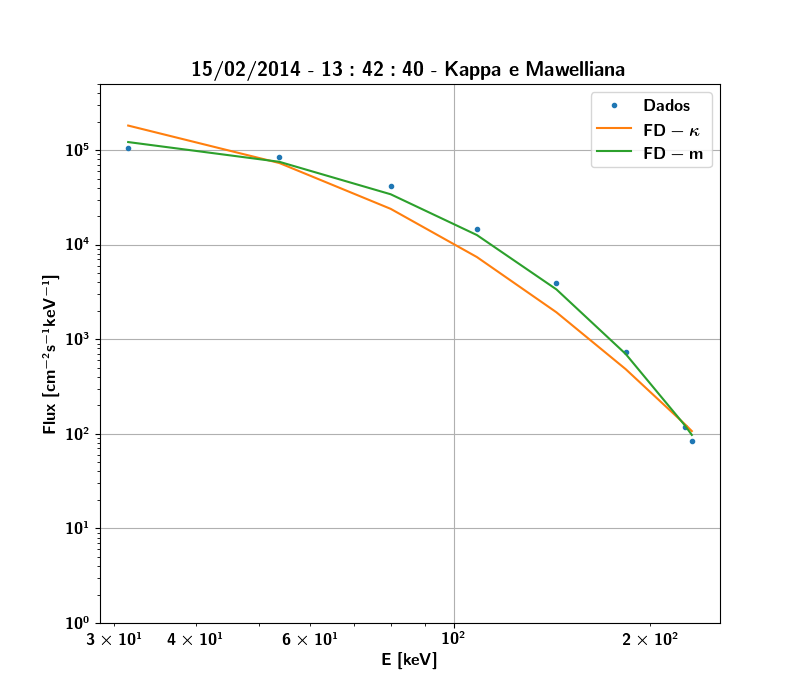
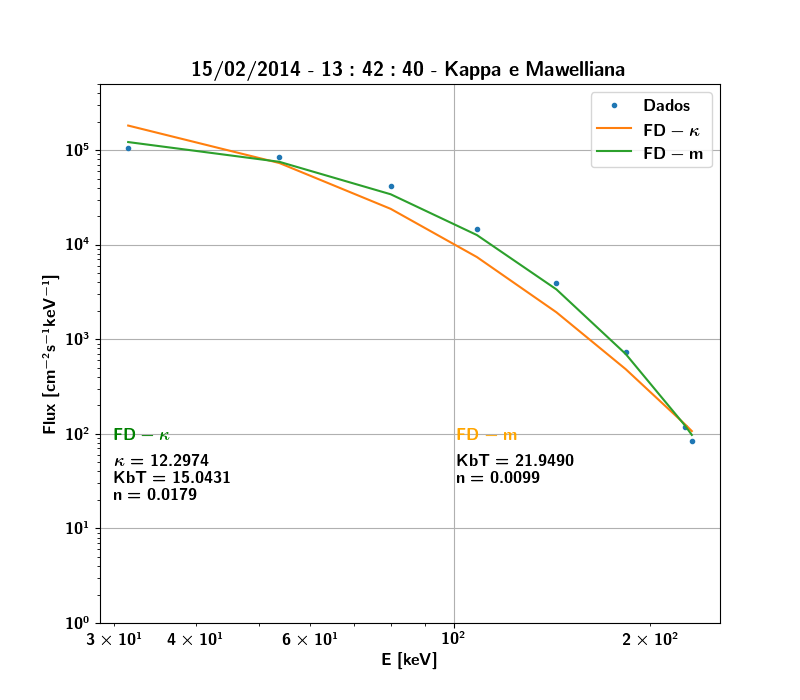
Change plot legends

diff --git a/plots.py b/plots.py
@@ -73,6 +73,10 @@ def plot_data(param_kappa, param_maxw,year, month, day, hour, minute, second, sa
     plt.xlabel('$E$ $[keV]$')
     plt.title(title_twoFunc)
     plt.ylim([1, 5e5])
+    plt.text(30,90,"$FD - \kappa$", {'color': 'green'})
+    plt.text(30,20,"$\kappa = %.4f$\n$KbT = %.4f$\n$n = %.4f$" %(param_kappa[2], param_kappa[1], param_kappa[0]))
+    plt.text(101,90,"$$FD - m$", {'color': 'orange'})
+    plt.text(101,30,"$KbT = %.4f$\n$n = %.4f$" %(param_maxw[1], param_maxw[0]))
 
 
     if save_plot:
@@ -111,4 +115,10 @@ def plot_data(param_kappa, param_maxw,year, month, day, hour, minute, second, sa
         plt.savefig(figureDirectory + figname_maxw, format = 'png')
 
 
+plot_data([0.000951281645059, 119.594140735, 6.2158357804], [0.000774778063291, 144.779204766], 2014, 2, 15, 10, 00, 00, save_plot=True)
+
+plot_data([0.0179448338354, 15.0431076672, 12.2973723572], [0.00991601182416, 21.9490243764], 2014, 2, 15, 13, 42, 40, save_plot=True)
+#
+plot_data([0.00220313692422, 34.2486718087, 7.57609449706], [0.000409958090321, 69.6181596313], 2014, 9, 12, 13, 00, 00, save_plot=True)
+#
 plot_data([0.000847344253, 17.1062790963, 23.4484914086], [0.0109706391221, 16.1386373306], 2014, 9, 12, 9, 30, 00, save_plot=True)
